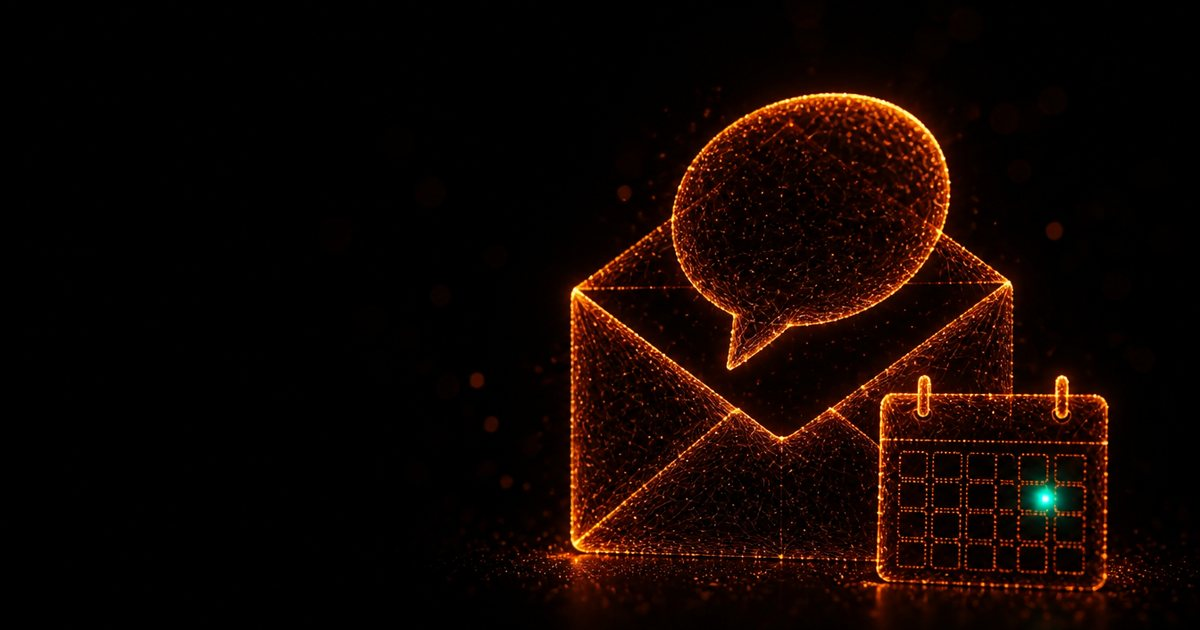
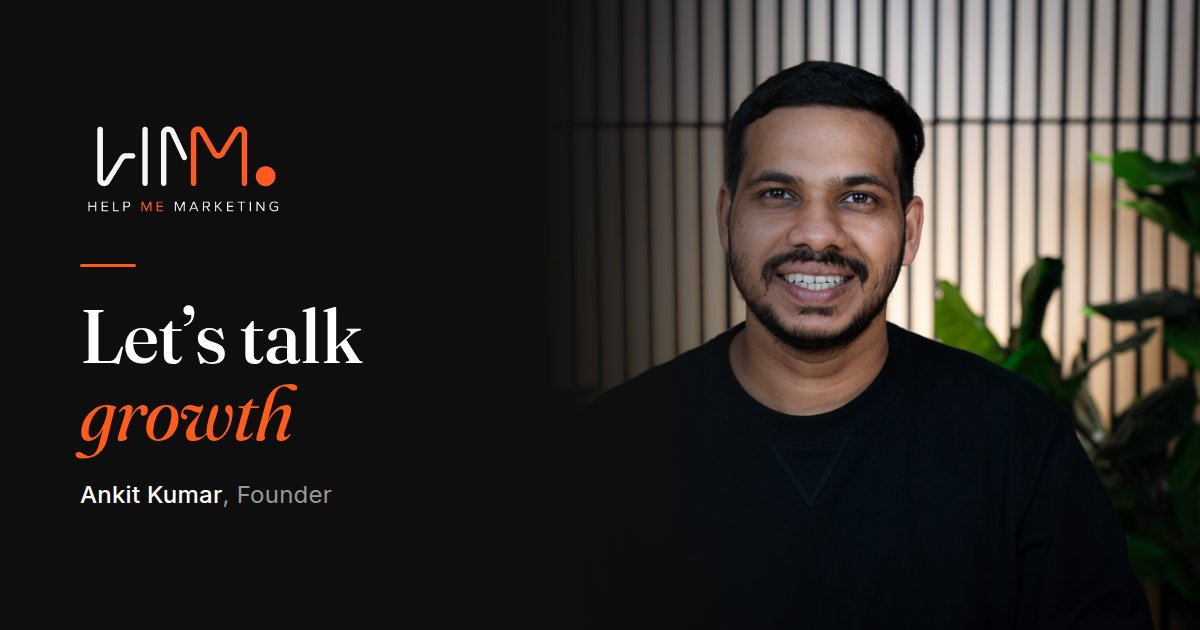
Contact: share image uses the founder's photo
Replaces the envelope illustration on /assets/contact/og.jpg with a card
in the house OG style: the founder's photo, the HMM logo and the page's
Let's talk growth heading. Same path, so no meta changes.

Claude-Session: https://claude.ai/code/session_018Zqg63gvGy44sVUM5NEbiy

diff --git a/docs/HMM_Design_System.md b/docs/HMM_Design_System.md
@@ -779,7 +779,7 @@ Real Estate Index cycle 003, production notes and overclaims (2026-09-24, second
 
 Contact form simplified (2026-09-28, founder decision). `/contact` went from a four-step wizard with eleven questions (service checkboxes, a required "what's holding you back" essay, current channels, budget radios, a required "what would you like to achieve" essay, timeline radios, then name, company, website, email, phone) to one screen of six fields: Name, Email, Phone (optional), Website, "What do you need help with?" and "Anything we should know?", the last two open text. All but phone are required. Reuses the Section 9 pattern (`.form-field`, `.form-input`, `.form-textarea`, `.form-optional` for the single optional field, `.form-error`, `.contact-submit`, `.contact-thanks`) and the `.hp-field` honeypot wrapper from the audit tool; labels now carry `for`/`id` pairs (the old ones had none), inputs carry `autocomplete` and `inputmode`, errors set `aria-invalid` and move focus to the field, and the error box is `role="alert"`. New page-local rules: an invalid-field border (`var(--error-border)`) and a disabled submit state; the progress bar, step, option-card, question-group and ghost-button rules went with their markup (all were contact-only, none in styles.css). The card gained 28px top and bottom padding above 640px, which the progress bar used to supply. The two step scripts are one IIFE, and nothing sets `.style` any more; visibility is the page's `.is-hidden` class. Intro copy "Four short steps, about two minutes" is now "It takes about a minute." Copy fixes on the way: the error message's email is `Hello@` per canon, and the budget and timeline labels that carried en dashes are gone with their fields. The locked seven-chip taxonomy no longer applies to this form (CLAUDE.md notes the retirement). Sheet compatibility: the payload keeps the old keys (`help_with[]` for the need, `biggest_challenge` for the notes) because the contact Apps Script is not in the repo; `company`, `current_marketing[]`, `monthly_investment`, `desired_outcome` and `timeline` are no longer sent, so those sheet columns stay empty for new leads.
 
-Contact page centred, founder portrait (2026-09-28, founder request, modelled on a reference layout supplied by the founder for alignment only, not its colours or fields). The two-column grid (heading, intro and a 16:10 envelope illustration on the left, form on the right, details under the heading) is now one centred column: `.contact-portrait` (a `figure` with a 120px round photo of the founder, 104px at 720 and below, 1px `var(--border)` ring, and the caption "Ankit Kumar, Founder" in 13px muted), then the eyebrow, H1, intro (max 540px), microcopy and the +312% proof pill, all centred; then the form card at 760px; then the contact details, centred text in their existing two-by-two grid. The form card is a two-column grid above 720px with Name and Email, then Phone and Website, paired through `.form-half`; the two open questions, the Turnstile slot, the error box and the submit row span both columns, and at 720 and below everything is one column. The portrait is a square crop of the founder's photo centred on the face, shipped as `/assets/contact/ankit-240.webp` and `ankit-360.webp` (6KB and 11KB) with `sizes="120px"` and width/height set, so 2x screens take the 240 file and 3x phones the 360. The envelope illustration (`hero.webp`, `hero-704.webp`) is deleted; `og.jpg`, the social card, still shows it and was left alone. CSS: the prototype contact block (2026-09-11 header) was rewritten as a flex column with the canon 720 breakpoint in place of its old 960 grid overrides; dead rules removed with their markup: `.stack-contact` (its rule and its place in the grouped 960 selector), `.contact-page .stack-contact` and both legacy `.contact-aside` position rules, which the old grid overrides had been cancelling. The `.contact-aside` class stays on the heading block so the protected token shim for it keeps applying. One pre-existing flaw fixed on the way: a legacy 960 rule gave `.contact-submit` a 24px side margin, so on phones the full-width button sat narrower than the fields and off-centre; the page rule now sets the margin outright. Verified at 1440, 900 and 390: portrait, heading, pill, form and details share one centre line to the pixel, fields pair at 1440 and 900 and stack at 390, the button's edges match the fields', no horizontal scroll, no failed requests, and the full contact-form scenario suite (validation, honeypot, fast submit, eventless script, human submit, phone) passes unchanged.
+Contact page centred, founder portrait (2026-09-28, founder request, modelled on a reference layout supplied by the founder for alignment only, not its colours or fields). The two-column grid (heading, intro and a 16:10 envelope illustration on the left, form on the right, details under the heading) is now one centred column: `.contact-portrait` (a `figure` with a 120px round photo of the founder, 104px at 720 and below, 1px `var(--border)` ring, and the caption "Ankit Kumar, Founder" in 13px muted), then the eyebrow, H1, intro (max 540px), microcopy and the +312% proof pill, all centred; then the form card at 760px; then the contact details, centred text in their existing two-by-two grid. The form card is a two-column grid above 720px with Name and Email, then Phone and Website, paired through `.form-half`; the two open questions, the Turnstile slot, the error box and the submit row span both columns, and at 720 and below everything is one column. The portrait is a square crop of the founder's photo centred on the face, shipped as `/assets/contact/ankit-240.webp` and `ankit-360.webp` (6KB and 11KB) with `sizes="120px"` and width/height set, so 2x screens take the 240 file and 3x phones the 360. The envelope illustration (`hero.webp`, `hero-704.webp`) is deleted; `og.jpg`, the social card, still shows it and was left alone. CSS: the prototype contact block (2026-09-11 header) was rewritten as a flex column with the canon 720 breakpoint in place of its old 960 grid overrides; dead rules removed with their markup: `.stack-contact` (its rule and its place in the grouped 960 selector), `.contact-page .stack-contact` and both legacy `.contact-aside` position rules, which the old grid overrides had been cancelling. The `.contact-aside` class stays on the heading block so the protected token shim for it keeps applying. One pre-existing flaw fixed on the way: a legacy 960 rule gave `.contact-submit` a 24px side margin, so on phones the full-width button sat narrower than the fields and off-centre; the page rule now sets the margin outright. Verified at 1440, 900 and 390: portrait, heading, pill, form and details share one centre line to the pixel, fields pair at 1440 and 900 and stack at 390, the button's edges match the fields', no horizontal scroll, no failed requests, and the full contact-form scenario suite (validation, honeypot, fast submit, eventless script, human submit, phone) passes unchanged. Contact share image replaced the same day (founder request): `/assets/contact/og.jpg` (same path, so no meta changes) is now a 1200x630 card in the house OG style, the founder's photo on the right fading into an Obsidian (`#0E0E0E`) left panel carrying the full HMM logo, a 56px Signal Orange rule, "Let's talk *growth*" in Fraunces 76px with the italic word in Signal Orange (the page H1), and "Ankit Kumar, Founder" in Inter. Composed as an HTML page with the site's own font and logo files and captured with Playwright, saved as progressive JPEG quality 85 (79KB to 61KB). The photo is positioned so the whole face stays inside the centred 630px square that some messaging apps crop to. Social platforms cache previews per page, so existing shares keep the envelope until each platform rescrapes.
 
 Bot guard pattern (2026-09-28, reusable for any `no-cors` Apps Script form). Three invisible checks before the POST: a filled honeypot, a submit under 3,000ms from page load, or no trusted key, pointer, touch or input event on the form. Any one trips it; the visitor-facing result is the normal thank-you panel and no request is made, so a bot gets no signal to adapt to. The honeypot input is not included in the payload. Verified with Playwright against the local page with the endpoint intercepted: empty and malformed submits each stop at the first bad field with focus and `aria-invalid`; honeypot, fast submit and a script that sets values without events each show thanks with zero requests; a human-paced fill sends exactly one request with the six keys even on a double click, the bare domain arrives as `https://`, and the honeypot sits at left -9999px at 1440 and 390 with no horizontal scroll. Limit: every check runs in the browser, so a bot that POSTs directly to the Apps Script URL skips them; the server-side answer is Cloudflare Turnstile with the token verified in `doPost`.
 
